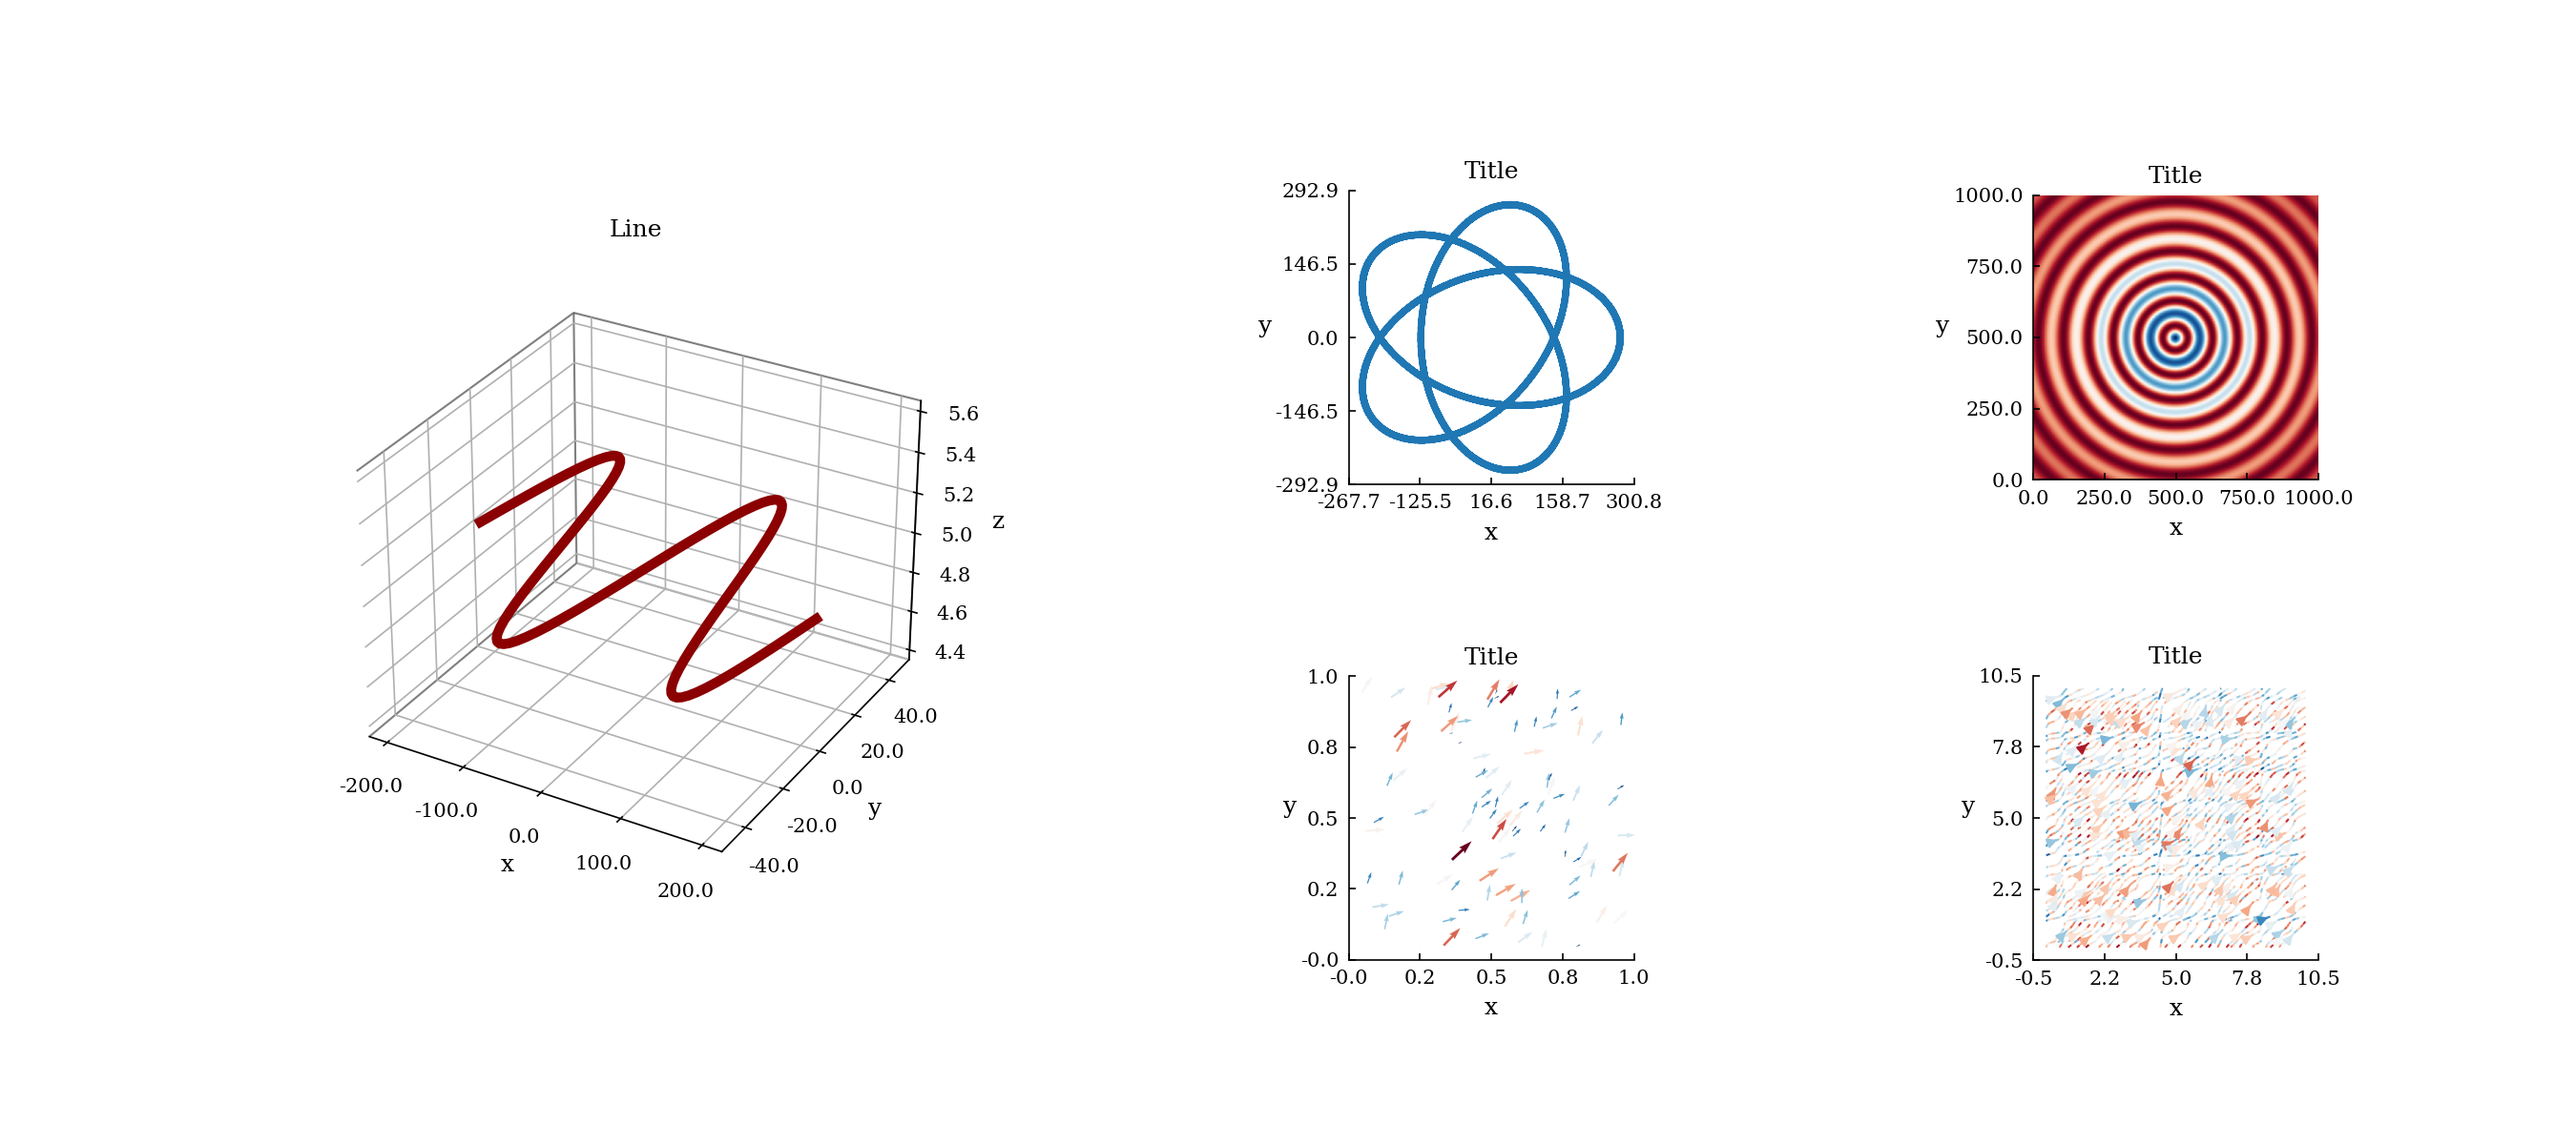
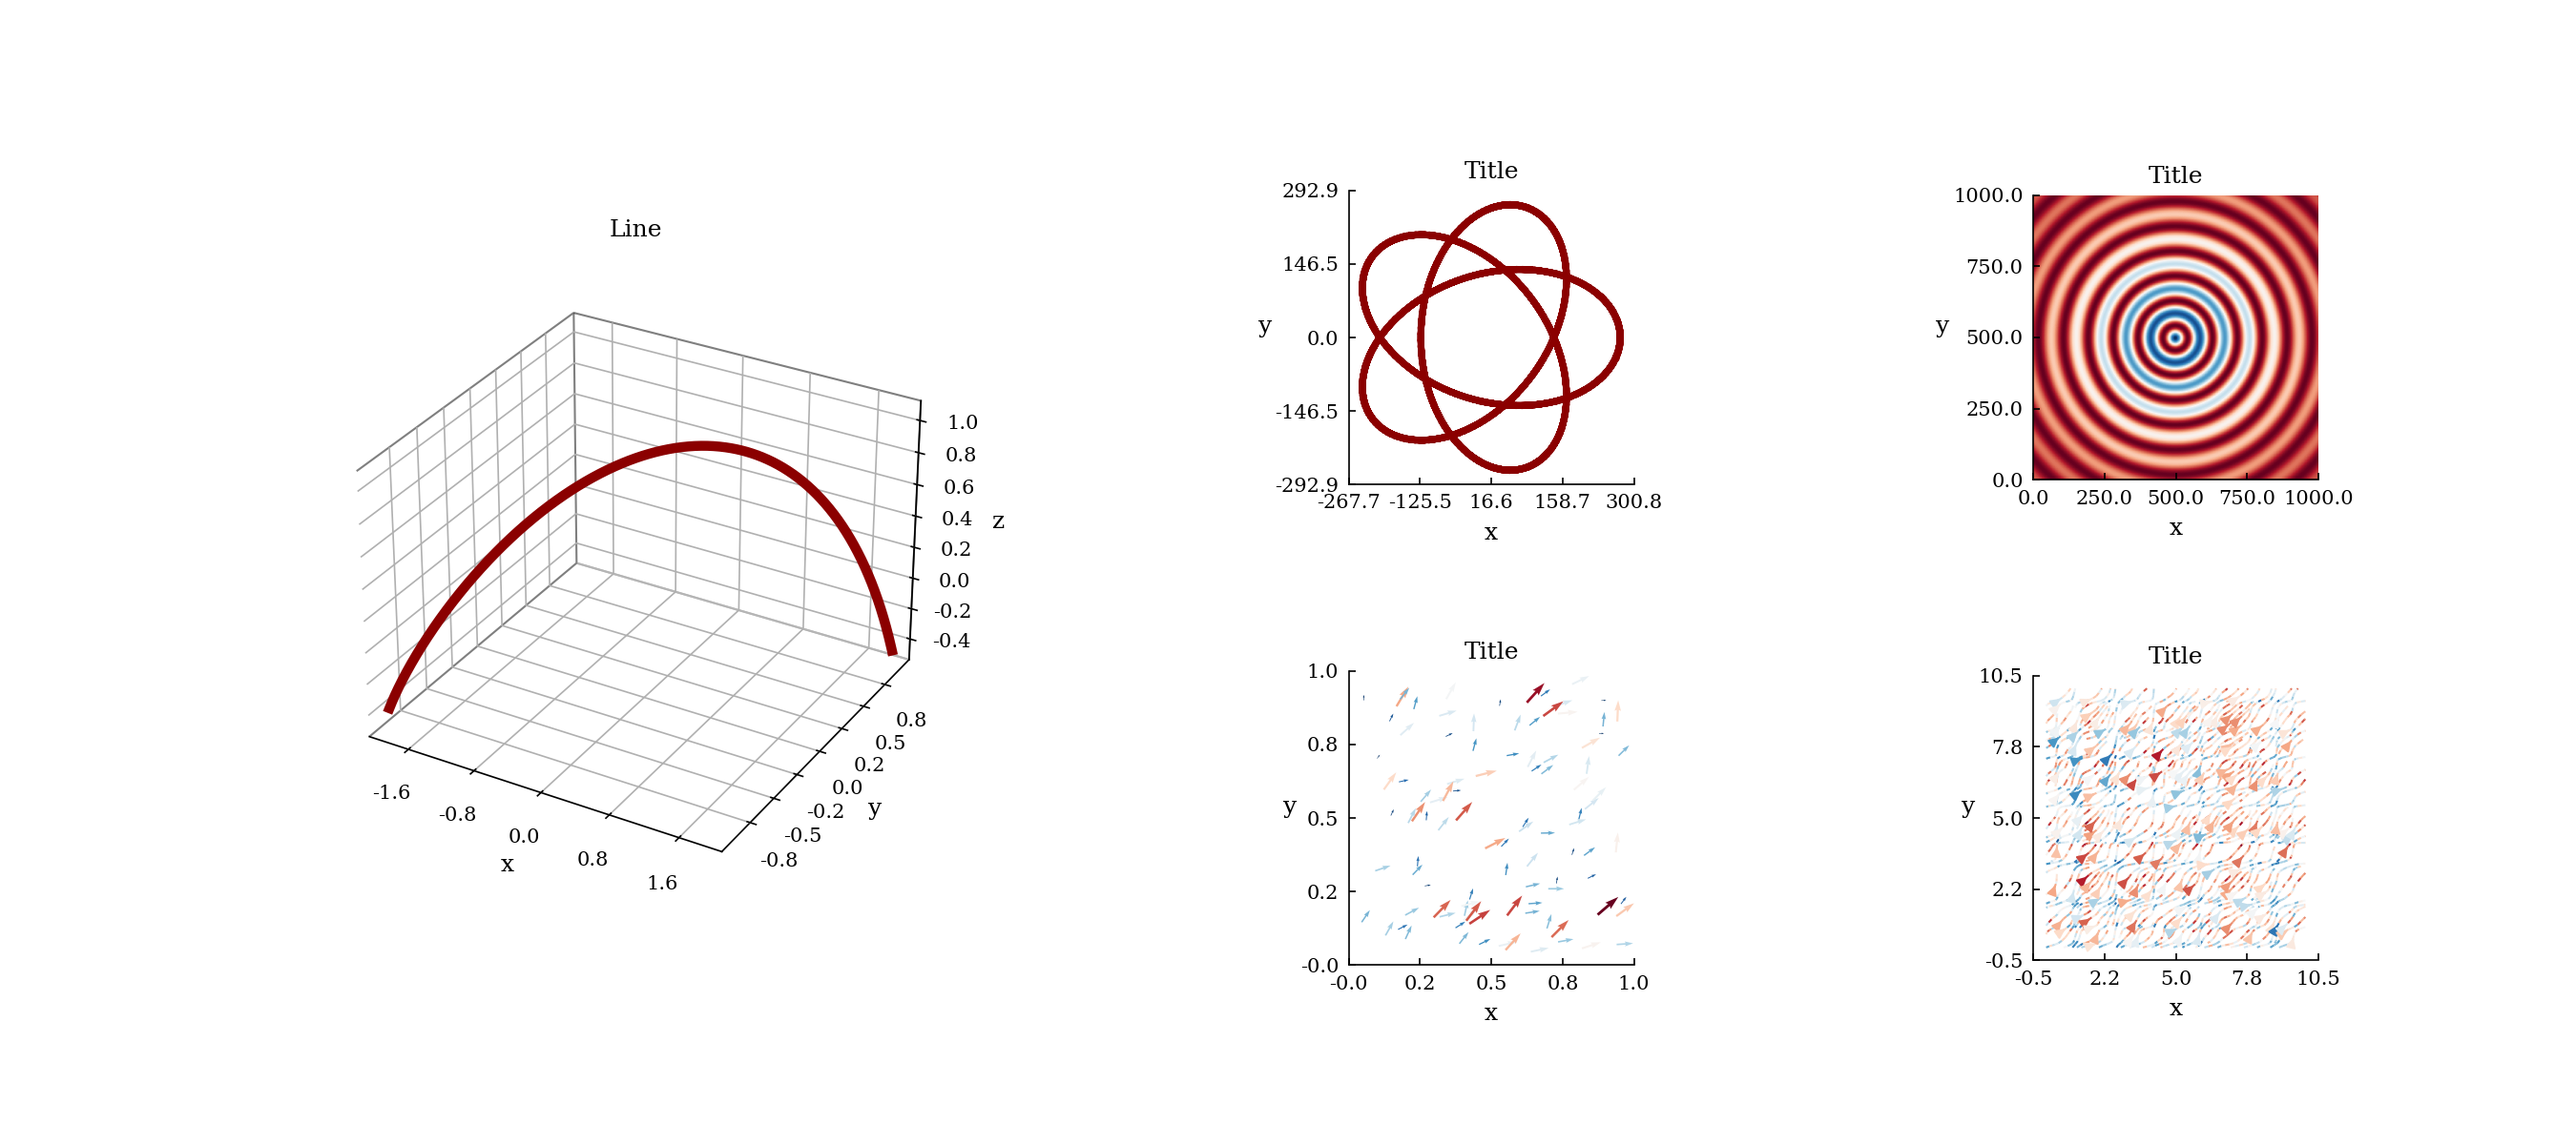
.

diff --git a/release/mpl_plotter/two_d.py b/release/mpl_plotter/two_d.py
@@ -10,9 +10,9 @@ from matplotlib import cm
 from matplotlib import font_manager as font_manager
 from matplotlib.ticker import FormatStrFormatter
 
-from mpl_plotter.resources.mock_data import MockData
-from mpl_plotter.resources.functions import normalize
-from mpl_plotter.resources.functions import print_color
+from resources.mock_data import MockData
+from resources.functions import normalize
+from resources.functions import print_color
 
 # from matplotlib import rc
 # from matplotlib import colors
@@ -448,7 +448,7 @@ class line(plot):
                  # Grid
                  grid=False, grid_color='black', grid_lines='-.',
                  # Color
-                 color=None, cmap='RdBu_r', alpha=None, norm=None,
+                 color='darkred', cmap='RdBu_r', alpha=None, norm=None,
                  # Title
                  title='Title', title_bold=False, title_size=12, title_y=1.025,
                  # Labels

diff --git a/release/mpl_plotter/two_d_dev.py b/release/mpl_plotter/two_d_dev.py
@@ -1,10 +1,12 @@
 import numpy as np
 
 from resources.mock_data import MockData
-from two_d import streamline
+from two_d import fill_area, line
 
 x = np.arange(-6, 6, .01)
-y = MockData().boltzman(x, 0, 1)
-z = 1 - MockData().boltzman(x, 0.5, 1)
+y = np.sin(x)
+z = np.sin(x-45/180*np.pi)
 
-streamline()
+line(x, y, more_subplots_left=True)
+line(x, z, more_subplots_left=True)
+fill_area(x=x, y=y, z=z, above=True)

diff --git a/release/mpl_plotter/three_d.py b/release/mpl_plotter/three_d.py
@@ -436,8 +436,9 @@ class line(plot):
 
     def mock(self):
         if isinstance(self.x, type(None)) and isinstance(self.y, type(None)) and isinstance(self.z, type(None)):
-            self.x, self.y = MockData().sinewave()
-            self.z = np.array([5])
+            self.x = np.linspace(-2, 2, 1000)
+            self.y = np.sin(self.x)
+            self.z = np.cos(self.x)
 
 
 class utils:
